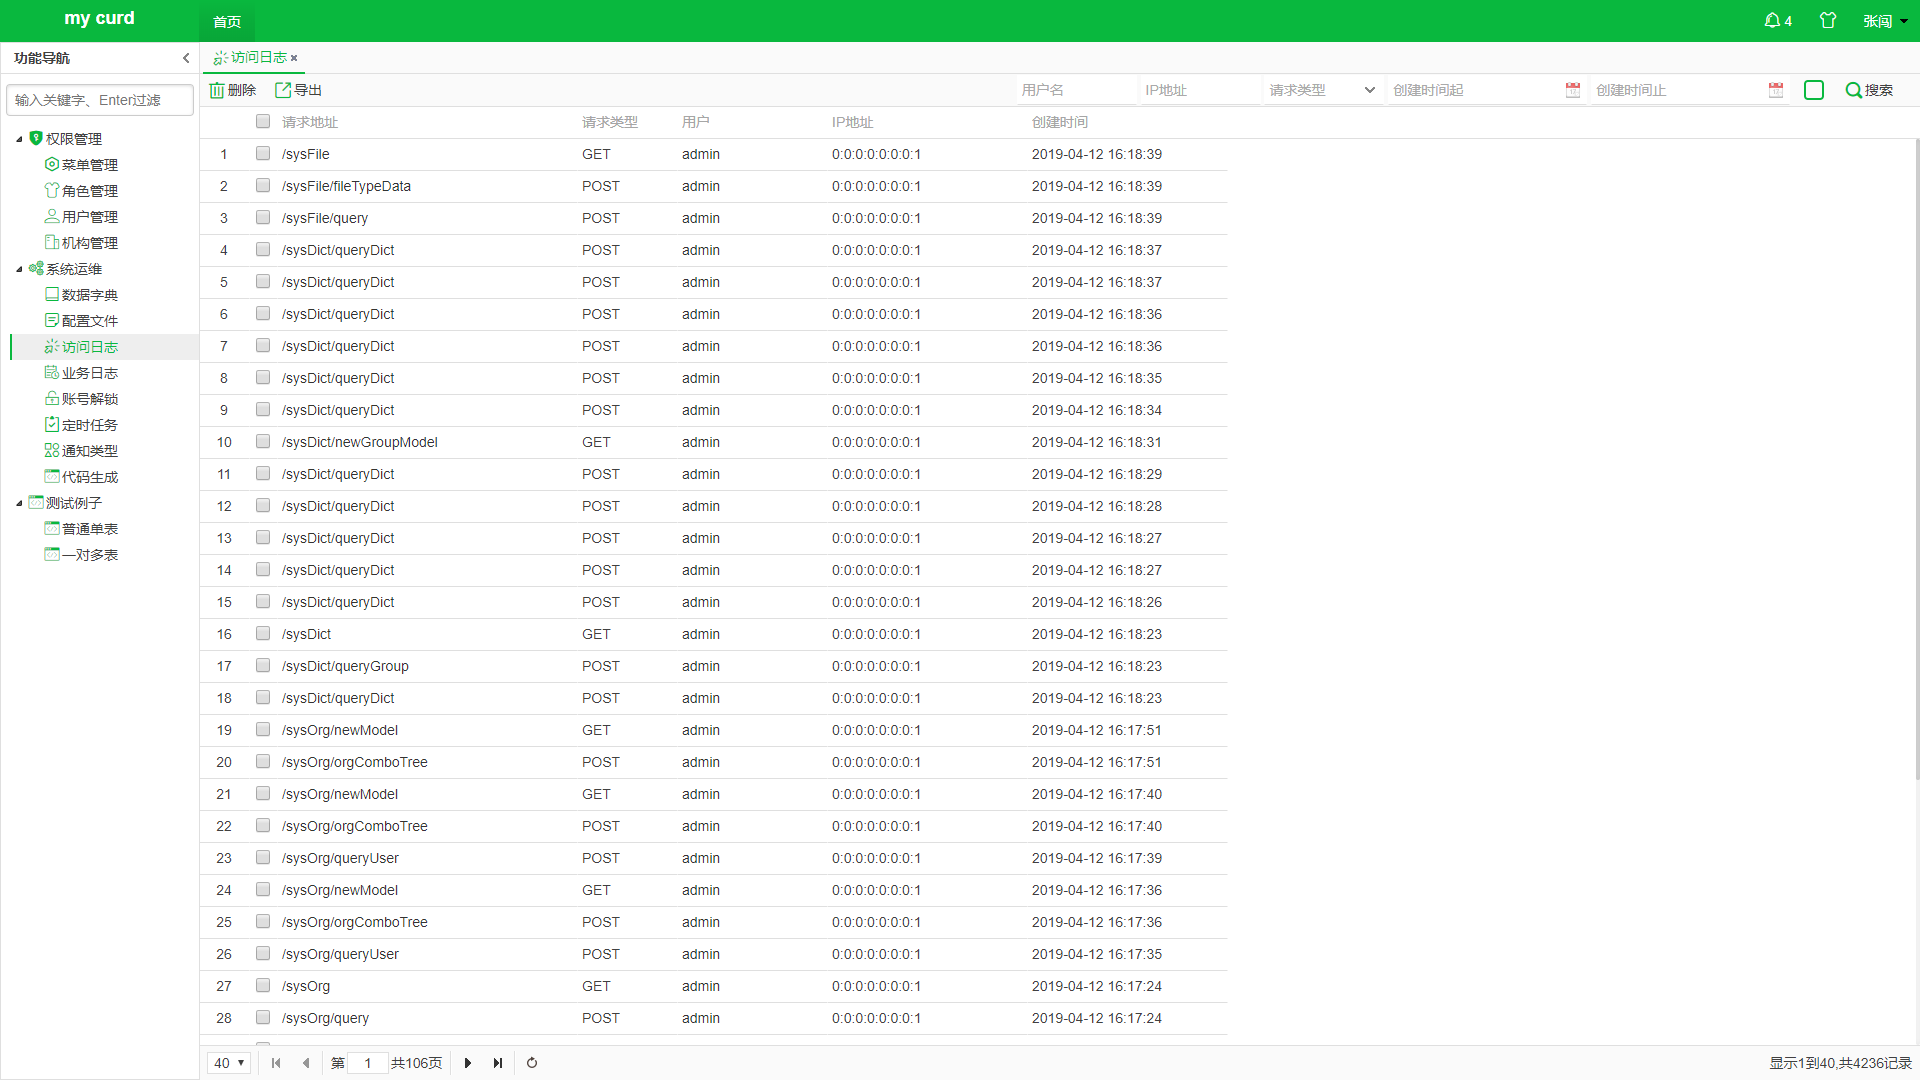
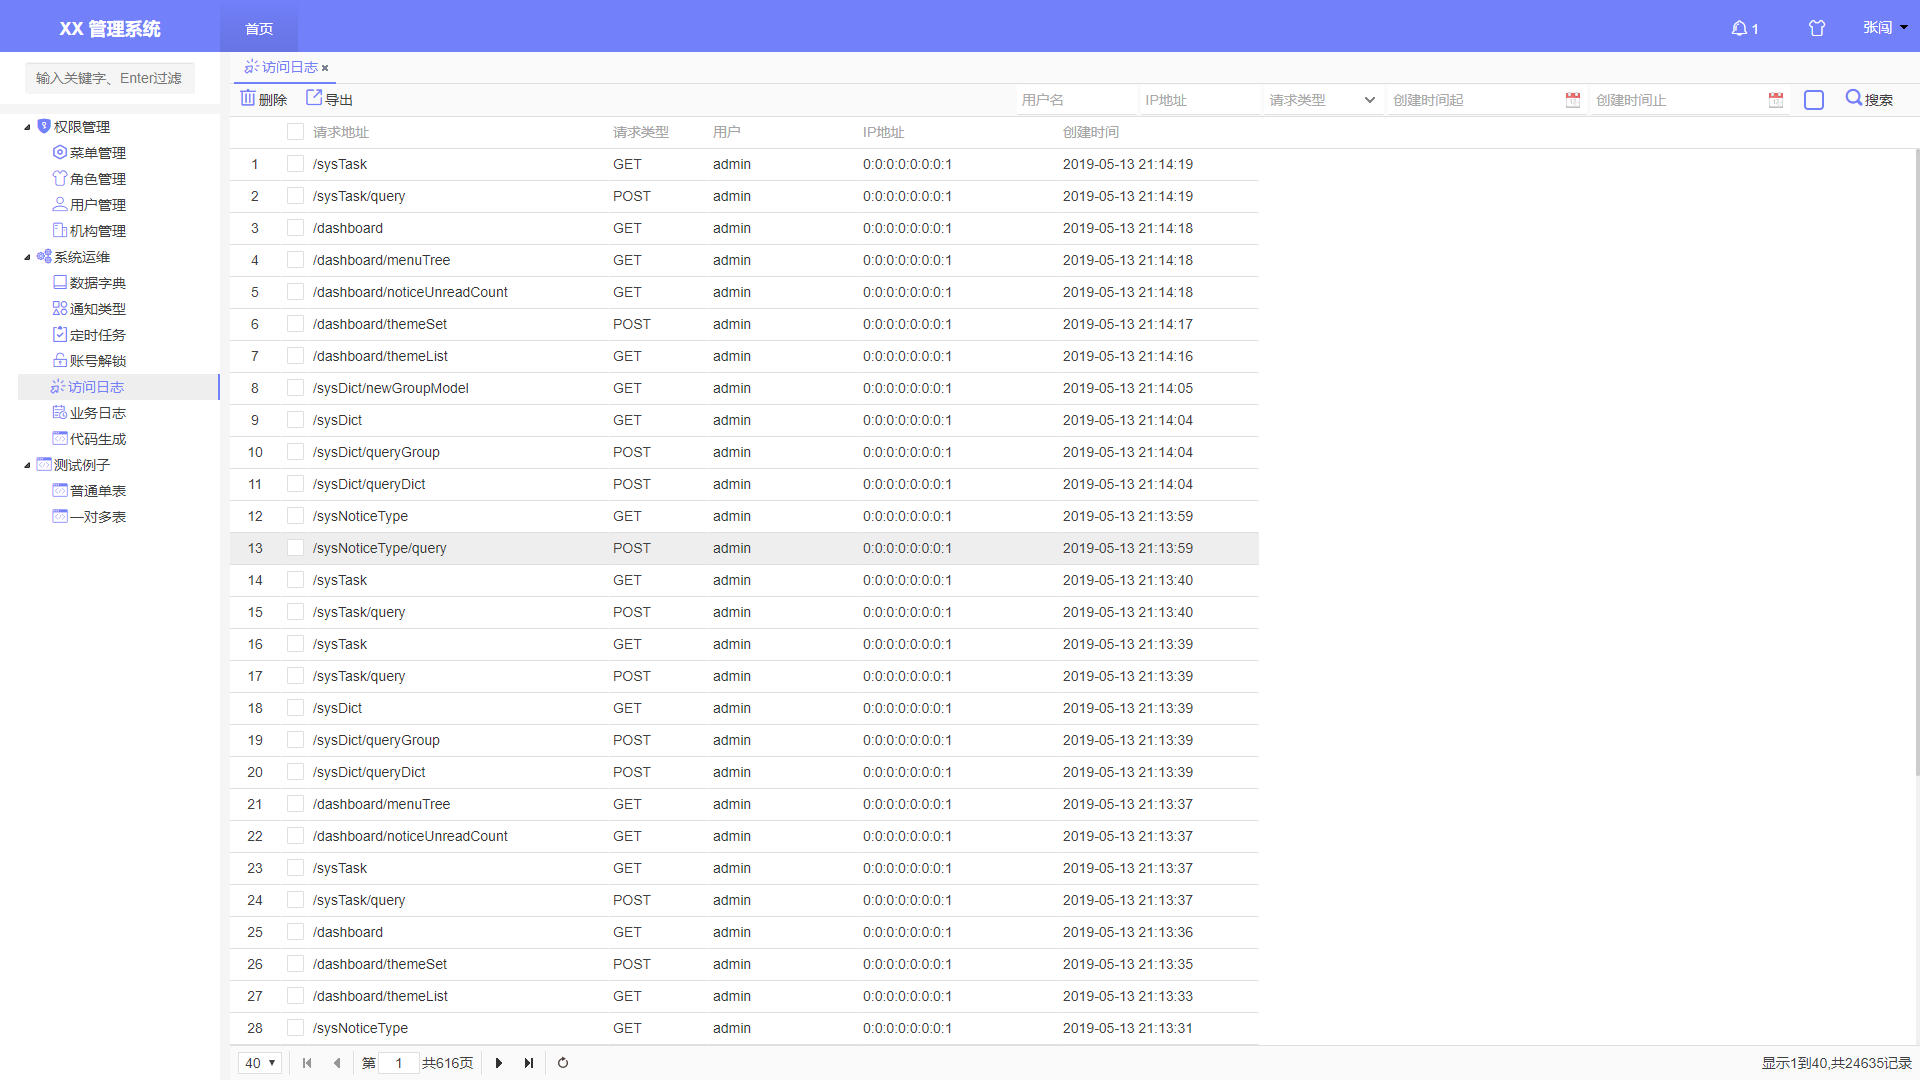
UI 美化

Changed region(s): [[0.0, 0.0, 1.0, 1.0], [0.9062, 0.9778, 0.9688, 1.0]]

diff --git a/src/main/webapp/static/css/custom-theme-default.css b/src/main/webapp/static/css/custom-theme-default.css
@@ -31,6 +31,7 @@ a:hover{
 /*input focus*/
 .pure-form input:not([type]):focus, .pure-form input[type=password]:focus, .pure-form input[type=email]:focus, .pure-form input[type=url]:focus, .pure-form input[type=date]:focus, .pure-form input[type=month]:focus, .pure-form input[type=time]:focus, .pure-form input[type=datetime]:focus, .pure-form input[type=datetime-local]:focus, .pure-form input[type=week]:focus, .pure-form input[type=tel]:focus, .pure-form input[type=color]:focus, .pure-form input[type=number]:focus, .pure-form input[type=search]:focus, .pure-form input[type=text]:focus, .pure-form select:focus, .pure-form textarea:focus {
     border-color:#447eff !important;
+
 }
 
 .pure-form input[type=file]:focus, .pure-form input[type=checkbox]:focus, .pure-form input[type=radio]:focus {
@@ -52,6 +53,12 @@ a:hover{
 div[class*='datagrid-']>input[type=checkbox]:checked::before {
     background-color: #447eff;
     border: 1px solid #447eff;
+}
+
+
+.sidebar .tree-node-selected {
+    border-left:none;
+    border-right:  2px solid #447eff  !important;
 }
 
 
@@ -119,7 +126,7 @@ div[class*='datagrid-']>input[type=checkbox]:checked::before {
     color:#447eff  !important;
 }
 .tree-node-selected {
-    border-left: 2px solid#447eff  !important;
+    border-left: 2px solid#447eff ;
 }
 .calendar-selected {
     background:#447eff  !important;

diff --git a/src/main/webapp/static/css/main.css b/src/main/webapp/static/css/main.css
@@ -56,18 +56,29 @@
 }
 
 
-
+/*左侧边栏*/
 .sidebar{
     width: 220px !important;
 }
-/*左侧边栏*/
-.sidebar .panel-header, .sidebar .panel-body {
-    /*background-color: #f5f5f5;*/
-    /*background-color: #fbfbfb;*/
-    background-color: #fff;
-
-    /*background-color: #f5f5f5;*/
+.sidebar input{
+    width: 170px;
+    padding: 7px 10px;
+    border: 1px solid #f5f5f5;
+    border-radius: 3px;
+    -webkit-box-shadow: inset 0 1px 1px rgba(0,0,0,.075);
+    box-shadow: inset 0 1px 1px rgba(0,0,0,.075);
+    background-color: #f5f5f5;
+    font-weight: 500;
 }
+.sidebar input:focus{
+    outline: 0;
+}
+.sidebar .panel-header, .sidebar .panel-body {
+    background-color: #fff;
+}
+
+
+
 .content{
  /*   padding-top: 10px;*/
     padding-left: 10px;

diff --git a/src/main/webapp/static/css/custom-theme-green.css b/src/main/webapp/static/css/custom-theme-green.css
@@ -54,6 +54,11 @@ div[class*='datagrid-']>input[type=checkbox]:checked::before {
 }
 
 
+.sidebar .tree-node-selected {
+    border-left:none;
+    border-right:  2px solid #40b370  !important;
+}
+
 
 /*easyui 其实最好 是用 easyui 官方主题builder，分开引用css*/
 .accordion .accordion-header-selected .panel-title {
@@ -119,7 +124,7 @@ div[class*='datagrid-']>input[type=checkbox]:checked::before {
     color: #40b370  !important;
 }
 .tree-node-selected {
-    border-left: 2px solid #40b370  !important;
+    border-left: 2px solid #40b370 ;
 }
 .calendar-selected {
     background: #40b370  !important;

diff --git a/src/main/webapp/static/css/custom-theme-wordpress.css b/src/main/webapp/static/css/custom-theme-wordpress.css
@@ -55,6 +55,12 @@ div[class*='datagrid-']>input[type=checkbox]:checked::before {
 }
 
 
+.sidebar .tree-node-selected {
+    border-left:none;
+    border-right:  2px solid #21759b  !important;
+}
+
+
 /*easyui */
 .accordion .accordion-header-selected .panel-title {
     color: #21759b !important;
@@ -119,7 +125,7 @@ div[class*='datagrid-']>input[type=checkbox]:checked::before {
     color: #21759b  !important;
 }
 .tree-node-selected {
-    border-left: 2px solid #21759b  !important;
+    border-left: 2px solid #21759b ;
 }
 .calendar-selected {
     background: #21759b  !important;

diff --git a/src/main/webapp/static/css/custom-theme-yahoo.css b/src/main/webapp/static/css/custom-theme-yahoo.css
@@ -54,6 +54,11 @@ div[class*='datagrid-']>input[type=checkbox]:checked::before {
     background-color: #7280fa;
 }
 
+.sidebar .tree-node-selected {
+    border-left:none;
+    border-right:  2px solid #7280fa  !important;
+}
+
 
 /*easyui */
 .accordion .accordion-header-selected .panel-title {
@@ -119,7 +124,7 @@ div[class*='datagrid-']>input[type=checkbox]:checked::before {
     color:#7280fa  !important;
 }
 .tree-node-selected {
-    border-left: 2px solid#7280fa  !important;
+    border-left: 2px solid#7280fa ;
 }
 .calendar-selected {
     background:#7280fa  !important;

diff --git a/src/main/webapp/static/css/custom-theme-gplus.css b/src/main/webapp/static/css/custom-theme-gplus.css
@@ -55,6 +55,12 @@ div[class*='datagrid-']>input[type=checkbox]:checked::before {
 }
 
 
+.sidebar .tree-node-selected {
+    border-left:none;
+    border-right:  2px solid #fc5832  !important;
+}
+
+
 
 /*easyui */
 .accordion .accordion-header-selected .panel-title {
@@ -120,7 +126,7 @@ div[class*='datagrid-']>input[type=checkbox]:checked::before {
     color: #fc5832  !important;
 }
 .tree-node-selected {
-    border-left: 2px solid #fc5832  !important;
+    border-left: 2px solid #fc5832 ;
 }
 .calendar-selected {
     background: #fc5832  !important;

diff --git a/src/main/webapp/static/css/custom-theme-wechat.css b/src/main/webapp/static/css/custom-theme-wechat.css
@@ -54,6 +54,11 @@ div[class*='datagrid-']>input[type=checkbox]:checked::before {
 }
 
 
+.sidebar .tree-node-selected {
+    border-left:none;
+    border-right:  2px solid #09b83e  !important;
+}
+
 
 /*easyui */
 .accordion .accordion-header-selected .panel-title {
@@ -119,7 +124,7 @@ div[class*='datagrid-']>input[type=checkbox]:checked::before {
     color: #09b83e  !important;
 }
 .tree-node-selected {
-    border-left: 2px solid #09b83e  !important;
+    border-left: 2px solid #09b83e ;
 }
 .calendar-selected {
     background: #09b83e  !important;

diff --git a/src/main/webapp/static/css/custom-ui.css b/src/main/webapp/static/css/custom-ui.css
@@ -109,7 +109,6 @@ div[class*='datagrid-']>input[type=checkbox] {
     position: relative;
     width: 15px;
     height: 15px;
-    margin-right: 5px;
 }
 div[class*='datagrid-']>input[type=checkbox]::before {
     content: '';

diff --git a/README.md b/README.md
@@ -1,6 +1,6 @@
 
 <p align="center" style='font-weight:bold'>
-    <img src="https://images.gitee.com/uploads/images/2019/0213/221706_3326cf26_608004.png" width="100">
+    <img src="https://raw.githubusercontent.com/qinyou/my_curd/master/preview/logo.png" width="100">
     <br/>
     <b>my_curd</b>
     <p align="center">
@@ -29,14 +29,20 @@
 4. 访问 http://localhost/dashboard, 账号 admin, 密码 123456 或 111111
 5. 更多文档请看本项目Wiki, 因为项目足够简单，查看代码了解项目可能是更好的选择
 
-#### 预览 
-![菜单](https://raw.githubusercontent.com/qinyou/my_curd/master/preview/menu.png "menu.png")
-![机构](https://raw.githubusercontent.com/qinyou/my_curd/master/preview/org.png "org.png")
-![访问日志](https://raw.githubusercontent.com/qinyou/my_curd/master/preview/log.png "log.png")
-![通知消息](https://raw.githubusercontent.com/qinyou/my_curd/master/preview/notice.png "notice.png")
-![定时任务](https://raw.githubusercontent.com/qinyou/my_curd/master/preview/task.png "task.png")
+#### 预览
+##### 代码生成器
 ![代码生成器](https://raw.githubusercontent.com/qinyou/my_curd/master/preview/gen.png "gen.png")
-![一对多表](https://raw.githubusercontent.com/qinyou/my_curd/master/preview/otm.png "otm.png")
-![多主题](https://raw.githubusercontent.com/qinyou/my_curd/master/preview/theme.png "theme.png")
+
+##### 生成 1对多 增删改查 功能
+![1对多](https://raw.githubusercontent.com/qinyou/my_curd/master/preview/1tn.png "1tn.png")
+
+##### 菜单管理
+![菜单管理](https://raw.githubusercontent.com/qinyou/my_curd/master/preview/menu.png "menu.png")
+
+##### 组织机构
+![组织机构](https://raw.githubusercontent.com/qinyou/my_curd/master/preview/org.png "org.png")
+
+##### 访问日志
+![访问日志](https://raw.githubusercontent.com/qinyou/my_curd/master/preview/log.png "log.png")
 
 
